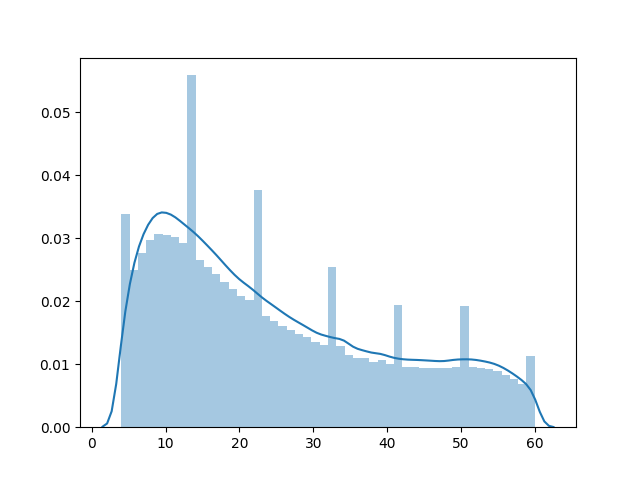
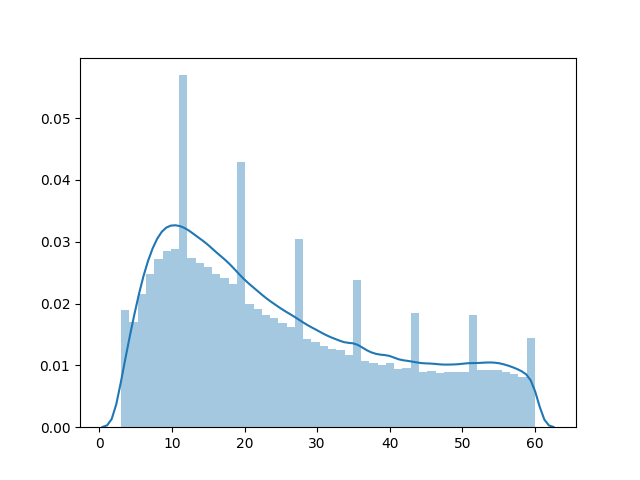
MP update

diff --git a/dataset_analysis/to_sentences_tokens.py b/dataset_analysis/to_sentences_tokens.py
@@ -11,26 +11,12 @@ from typing import Iterable, List, Optional, Callable
 
 from spacy.lang.en import English
 from spacy.language import Language as SpacyModelType
-import twokenize
+from target_extraction.tokenizers import spacy_tokenizer
 
 import helper
 from data_analysis_helper import yelp_text_generator, text_generator_func_mapper
 
 SPACY_MODEL = {}
-
-def ark_twokenize(text: str) -> List[str]:
-    '''
-    A Twitter tokeniser from
-    `CMU Ark <https://github.com/brendano/ark-tweet-nlp>`_
-    This is a wrapper of
-    `this <https://github.com/Sentimentron/ark-twokenize-py>`_
-    :param text: A string to be tokenised.
-    :returns: A list of tokens where each token is a String.
-    '''
-
-    if isinstance(text, str):
-        return twokenize.tokenizeRawTweetText(text)
-    raise ValueError(f'The paramter must be of type str not {type(text)}')
 
 def get_sentence_spitter() -> SpacyModelType:
     if 'english' not in SPACY_MODEL:
@@ -60,21 +46,13 @@ def sentence_token_generator(text: str) -> Iterable[str]:
     except:
         print(f'Text that Spacy cannot parse {text}\nThis text will not be included.')
 
-def tweet_token_generator(text: str) -> Iterable[str]:
-    '''
-    Given some text that can contain multiple sentences it breaks the document
-    into sentences, tokenises the sentence and yields each sentence where the 
-    original tokenisation can be found by splitting on whitespace.
-
-    Tokenisation and sentence splitting done by spacy.
-    '''
-    return ' '.join(ark_twokenize(text))
-
 def split_save_tweets(text_generator_func: Callable[[Path], Iterable[str]], 
                        review_data_dir: Path, 
                        split_names: Optional[List[str]] = None) -> None:
     split_names = split_names or ['train.json', 'val.json', 'test.json']
     save_split_names = ['split_train.txt', 'split_val.txt', 'split_test.txt']
+
+    tokenizer = spacy_tokenizer()
 
     for split_name, save_split_name in zip(split_names, save_split_names):
         split_fp = Path(review_data_dir, split_name).resolve()
@@ -83,7 +61,7 @@ def split_save_tweets(text_generator_func: Callable[[Path], Iterable[str]],
         count = 0
         with save_split_fp.open('w+') as save_split_file:
             for tweet in text_generator_func(split_fp):
-                tweet = tweet_token_generator(tweet)
+                tweet = ' '.join(tokenizer(tweet))
                 if count != 0:
                     tweet = f'\n{tweet}'
                 save_split_file.write(tweet)

diff --git a/README.md b/README.md
@@ -29,6 +29,7 @@ I think the next step would be to just split the yelp dataset into train, val an
 The next step after that would be to look at the size of the dataset by the token size where we will split based on whitespace. Then I think we will look into which model to use as the TransformerXL from what I have just gathered only uses token level information and does not encode any characters which is problematic.
 
 # Getting the data and models
+ALL DATA HERE IS TOKENIZED USING SPACY!
 ## Target Dependent Sentiment Analysis (TDSA) data
 ### Getting the data and converting it into Train, Validation, and Test sets
 
@@ -161,9 +162,9 @@ Number of test reviews 197193(0.08000011359445725%)
 ``` bash
 python dataset_analysis/to_sentences_tokens.py ../MP-Tweets/ mp
 ```
-Based on the [data statistics](./dataset_analysis/README.md) we are going to further filter the MP tweets dataset so that it only includes sentences that are at least 4 tokens long. We will also restrict the maximum sentence length to 60 as there are so few review sentences greater than this (2.23%). To do this run the following command:
+Based on the [data statistics](./dataset_analysis/README.md) we are going to further filter the MP tweets dataset so that it only includes sentences that are at least 3 tokens long. We will also restrict the maximum sentence length to 60 as there are so few review sentences greater than this (3.98%). To do this run the following command:
 ``` bash
-python dataset_analysis/filter_by_sentence_length.py ../MP-Tweets yelp_sentences 4 60
+python dataset_analysis/filter_by_sentence_length.py ../MP-Tweets yelp_sentences 3 60
 ```
 ```
 python dataset_analysis/data_stats.py ../MP-Tweets/filtered_split_train.txt yelp_sentences --sentence_length_distribution ./images/sentence_distributions/mp_filtered_training.png
@@ -171,9 +172,9 @@ python dataset_analysis/data_stats.py ../MP-Tweets/filtered_split_val.txt yelp_s
 python dataset_analysis/data_stats.py ../MP-Tweets/filtered_split_test.txt yelp_sentences --sentence_length_distribution ./images/sentence_distributions/mp_filtered_test.png
 ```
 We find that the:
-1. Training set has a mean sentence length of 24.92 (15.36) with 1,998,250 sentences and 198,298 tokens that occur at least 3 times. Distribution of the sentence lengths can be found [here](./images/sentence_distributions/mp_filtered_training.png).
-2. Validation set has a mean sentence length of 24.90 (15.35) with 190,302 sentences and 49,525 tokens that occur at least 3 times. Distribution of the sentence lengths can be found [here](./images/sentence_distributions/mp_filtered_validation.png).
-3. Test set has a mean sentence length of 24.81 (15.33) with 190,262 sentences and 49,232 tokens that occur at least 3 times. Distribution of the sentence lengths can be found [here](./images/sentence_distributions/mp_filtered_test.png).
+1. Training set has a mean sentence length of 25.28 (15.52) with 1,980,600 sentences and 180,501 tokens that occur at least 3 times. Distribution of the sentence lengths can be found [here](./images/sentence_distributions/mp_filtered_training.png).
+2. Validation set has a mean sentence length of 25.24 (15.53) with 188,552 sentences and 46,707 tokens that occur at least 3 times. Distribution of the sentence lengths can be found [here](./images/sentence_distributions/mp_filtered_validation.png).
+3. Test set has a mean sentence length of 25.22 (15.51) with 188,417 sentences and 46,769 tokens that occur at least 3 times. Distribution of the sentence lengths can be found [here](./images/sentence_distributions/mp_filtered_test.png).
 As we can see the sentence lengths and standard devations are very similar across the splits. 
 
 ### Training the Transformer ELMo model from scratch for MP Tweets

diff --git a/dataset_analysis/README.md b/dataset_analysis/README.md
@@ -28,4 +28,4 @@ As we can seen the `max`, `mean`, `min`, and `standard deviation` token counts p
 ``` bash
 python dataset_analysis/data_stats.py ../MP-Tweets yelp_sentences --is_dir --sentence_length_distribution ./images/sentence_distributions/mp.png
 ```
-As we can seen the `max`, `mean`, `min`, and `standard deviation` token counts per sentence are 188, 25.56, 1, and 16.55 respectively. The fact that the sentences are longer in general compared to the 1 billion word corpus is most likely due to Twitter containing lots of different punctuation that the tokeniser picks up on as Tweets are limited to 240 characters. We can also see that the diversity of the tokens is smaller compared to the 1 billion word corpus as the number of tokens that occur at least three times in all of the data splits is only 224,641 compared to 797,965 which is probably due to having a much smaller corpus in general (2,464,909 Tweets). Generally there are a lot more but still small in relative terms of one word Tweets. Lastly in comparison to the other corproa there are quite a few sentence with lots of tokens > 50 tokens 10.9% but after 60 it goes right down to 2.23%.
+As we can seen the `max`, `mean`, `min`, and `standard deviation` token counts per sentence are 343, 26.82, 1, and 17.33 respectively. The fact that the sentences are longer in general compared to the 1 billion word corpus is most likely due to Twitter containing lots of different punctuation that the tokeniser picks up on as Tweets are limited to 240 characters. We can also see that the diversity of the tokens is smaller compared to the 1 billion word corpus as the number of tokens that occur at least three times in all of the data splits is only 170,515 compared to 797,965 which is probably due to having a much smaller corpus in general (2,464,909 Tweets). Generally there are a lot more but still small in relative terms of one word Tweets. Lastly in comparison to the other corproa there are quite a few sentence with lots of tokens > 50 tokens 13.31% but after 60 it goes right down to 3.98%.
